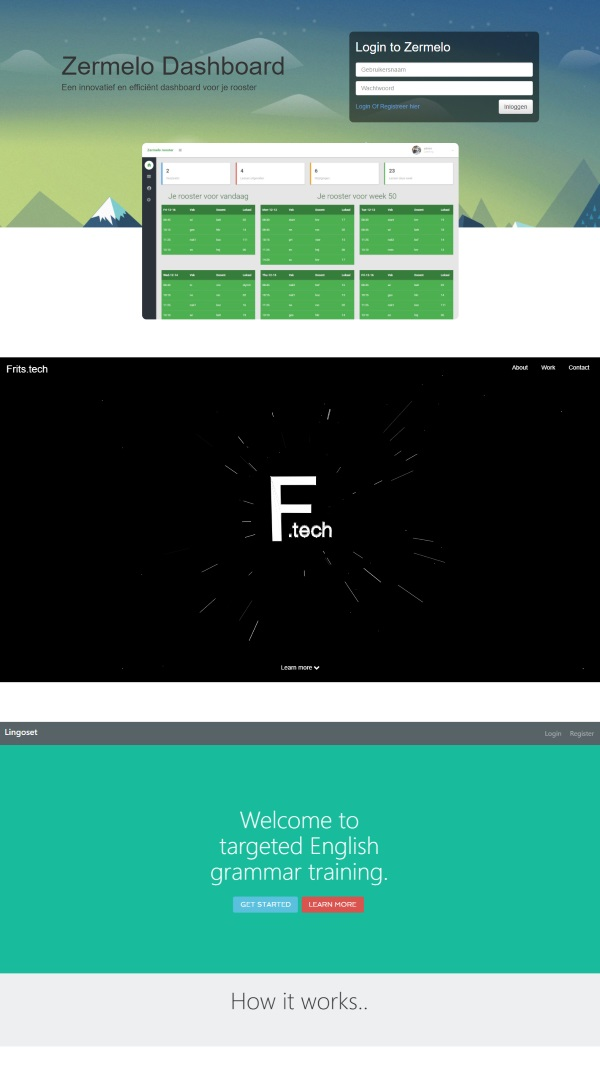
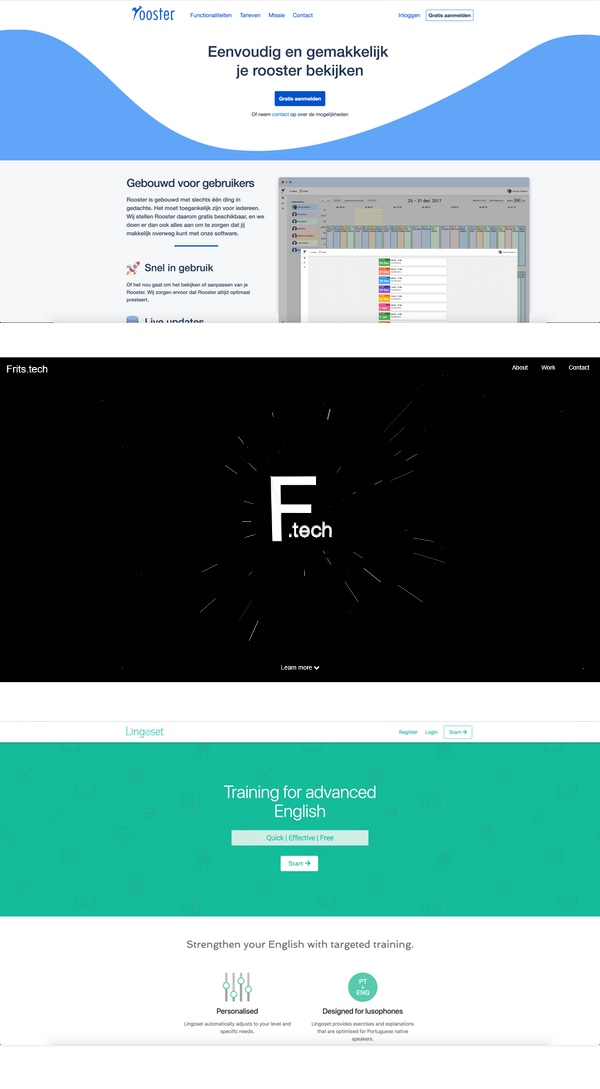
tiny update

diff --git a/index.html b/index.html
@@ -2,17 +2,17 @@
 <html lang="en">
 	<head>
 		<title>F - Tech</title>
-		<meta name="application-name" content="Frits Tech">
+		<meta name="application-name" content="Frits Tech - Portfolio of Frits van Turnhout">
 		<meta name="description" content="Portfolio of Web Developer - Frits van Turnhout">
-		<meta name="keywords" content="Frits, Frits van Turnhout, Php, Nodejs, Web Developer, Freelance, Amsterdam">
+		<meta name="keywords" content="Portfolio, Frits van Turnhout, Php, Nodejs, Web Developer, Freelance, Amsterdam">
 		<meta name="url" content="http://frits.tech/">
 		<meta name="twitter:card" content="summary_large_image">
-	    	<meta name="twitter:site" content="@frits374">
-	    	<meta name="twitter:creator" content="@frits374">
-	    	<meta name="twitter:description" content="Portfolio of Frits van Turnhout, Web Developer">
-	    	<meta property="og:url" content="https://frits.tech" />
-	    	<meta property="og:type" content="profile" />
-	    	<meta property="og:description" content="Portfolio of Web Developer - Frits van Turnhout" />
+  	<meta name="twitter:site" content="@frits374">
+  	<meta name="twitter:creator" content="@frits374">
+  	<meta name="twitter:description" content="Portfolio of Frits van Turnhout, Web Developer">
+  	<meta property="og:url" content="https://frits.tech" />
+  	<meta property="og:type" content="profile" />
+  	<meta property="og:description" content="Portfolio of Web Developer - Frits van Turnhout" />
 		<meta charset="utf-8">
 		<meta name="viewport" content="width=device-width, user-scalable=no, minimum-scale=1.0, maximum-scale=1.0">
 		<!-- Latest compiled and minified CSS -->
@@ -56,7 +56,7 @@
 		            <path d="M1440,69.0315425 L1440,0 L0,0 L0,69.0315425 C233.264983,25.0227325 473.943868,2 720,2 C966.056132,2 1206.73502,25.0227325 1440,69.0315425 Z" id="Combined-Shape"></path>
 		        </g>
 		    </svg>
-			
+
 			<h1 id="intro">About me</h1>
 			<hr class="section-title-rule">
 
@@ -64,14 +64,14 @@
 				<div class="row">
 					<div class="col-md-4 col-sm-6">
 						<h2 style="color: white;">- I'm Frits, I create Web sites and Apps</h2>
-						<p style="margin-top: 20px; color: white; font-size: 15px;">Thank you for visiting my site, as you might've guessed I'm a web developer. Who lives in the Netherlands. I have a hobby and passion about creating websites. I have been doing this for over 3 years now and I have over 2 years of experience with php where I used frameworks like Laravel and Slim3. I've also developed several websites and if you're interested, feel free to visit some of them below!</p>
+						<p style="margin-top: 20px; color: white; font-size: 15px;">Thank you for visiting my portfolio, as you might've guessed, I'm a web developer. I currently live in the Netherlands and it is my hobby and passion to create awesome web apps. I have been doing this for well over 3 years now. In those years I have used frameworks like Laravel and Slim3. I've also developed several websites and if you're interested, feel free to visit some of them using the links below!</p>
 					</div>
 					<div class="col-md-4 col-md-offset-1 col-sm-5 col-sm-offset-1">
 						<h2 style="color: white;">- Some of my skills</h2>
 						<p style="color: white; font-size: 16px; margin-top: 20px;"><strong>Back-end</strong></p>
-						<p style="color: white;">Php, Nodejs, Laravel, Api's, Slim3</p>
+						<p style="color: white;">Php, Nodejs, Laravel, Slim3, Golang, GraphQL</p>
 						<p style="color: white; font-size: 16px; margin-top: 20px;"><strong>Front-end</strong></p>
-						<p style="color: white;">CSS3, Html, Javascript, Jquery</p>
+						<p style="color: white;">CSS3, Html, Javascript, VueJS, React, Jquery</p>
 						<p style="color: white; font-size: 16px; margin-top: 20px;"><strong>Cloud</strong></p>
 						<p style="color: white;">AWS, Digitalocean, Unix</p>
 					</div>
@@ -98,8 +98,9 @@
 					<div id="workleft" class="col-md-5 col-sm-6">
 						<h1 style="color: white;">Some of my creations</h1>
 						<p style="color: white;">In the past years I've worked on several projects. some of the recent ones I've worked on are: </p>
-						<a style="color: white;" href="http://pasteit.v77.nl" target="_blank">- Pasteit</a><br>
-						<a style="color: white;" href="http://lingoset.com" target="_blank">- Lingoset</a><br>
+						<a style="color: white;" href="https://rooster.frimaxx.com" target="_blank">- Rooster</a><br>
+						<a style="color: white;" href="https://pasteit.v77.nl" target="_blank">- Pasteit</a><br>
+						<a style="color: white;" href="https://lingoset.com" target="_blank">- Lingoset</a><br>
 						<a style="color: white;" href="http://zermelo.v77.nl" target="_blank">- Zermelo Dashboard</a>
 					</div>
 					<div class="col-md-6 pull-right col-sm-6">
